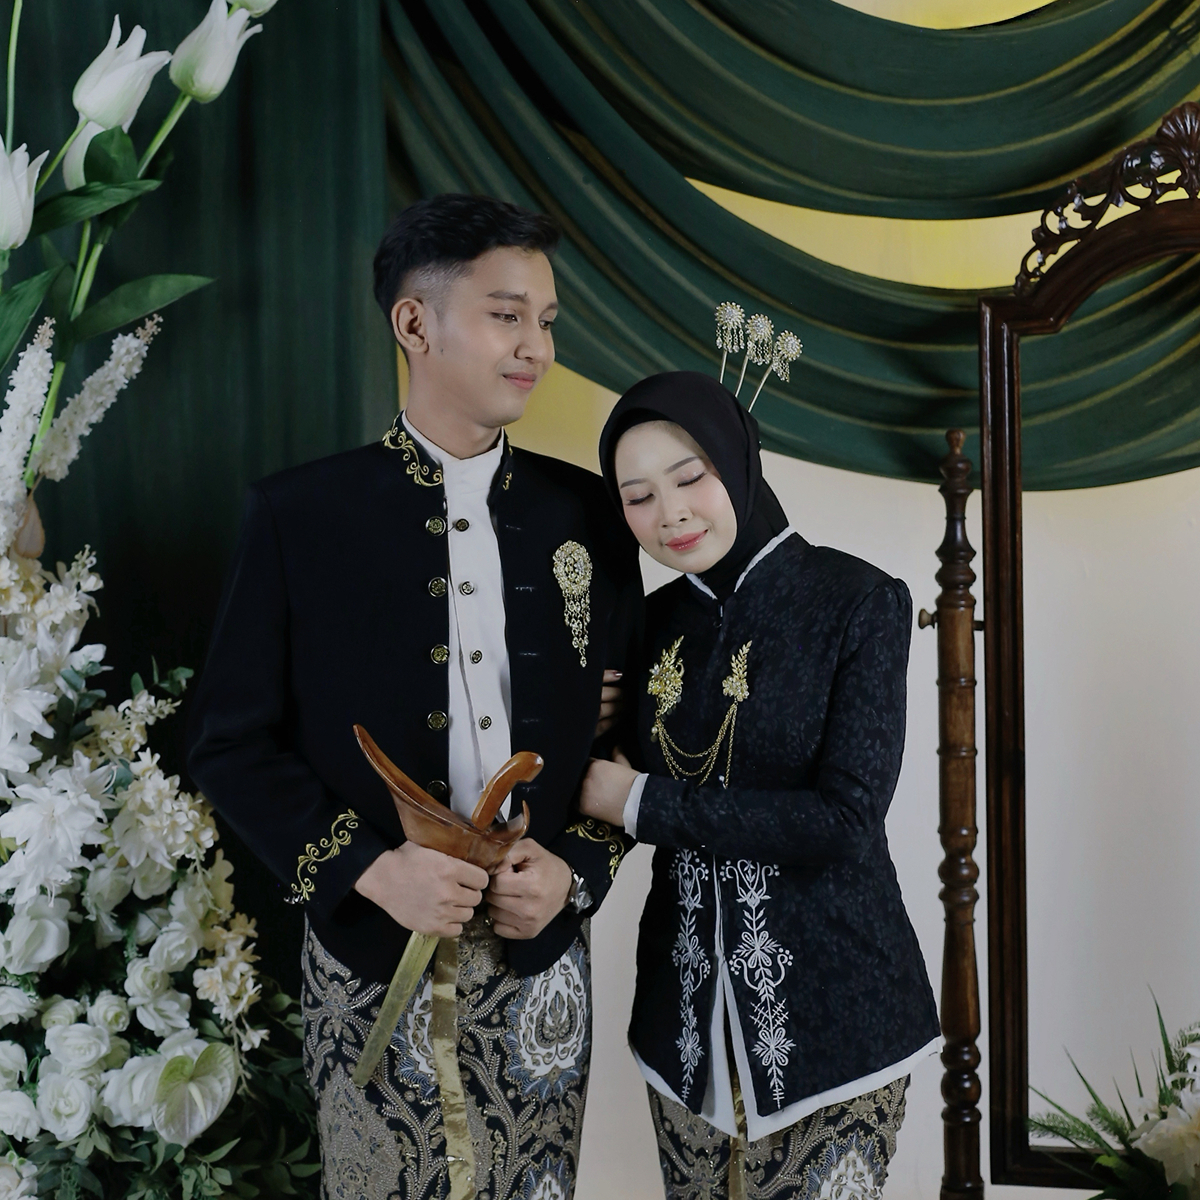
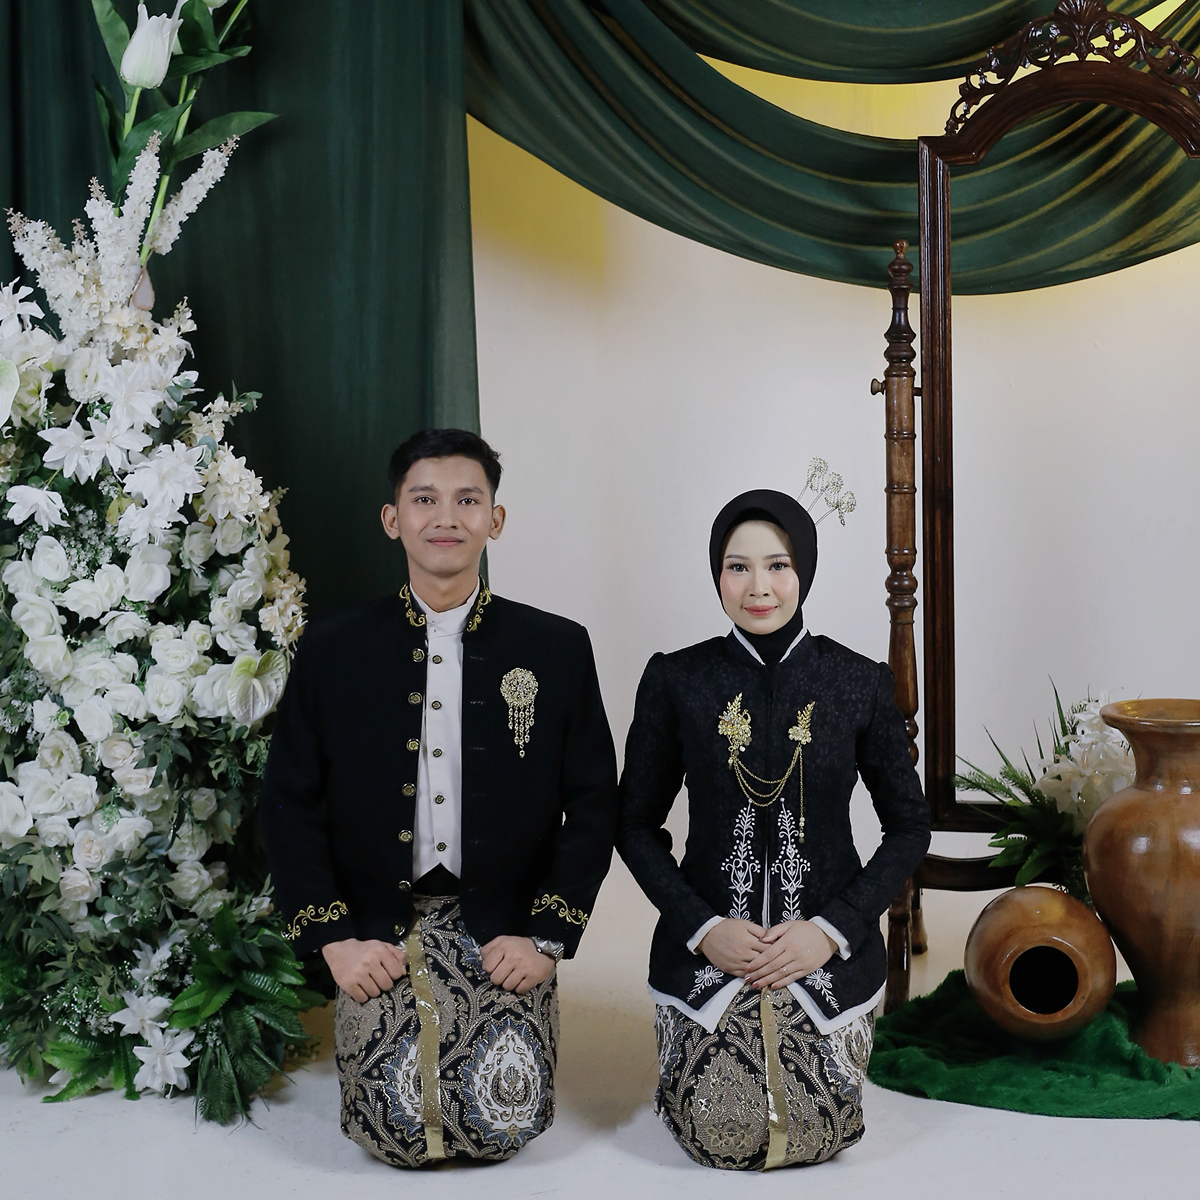
refactor: replace WebP gallery and cover images with JPEG format in index.html

diff --git a/index.html b/index.html
@@ -1294,10 +1294,10 @@
                         <div class="cover-frame" id="coverFrame">
                             <div class="cover-picture cover-show" id="cover-main">
                                 <div class="picture desktop">
-                                    <img loading="lazy" src="./media/content/portrait-10.webp" alt="">
+                                    <img loading="lazy" src="./media/content/portrait-10.jpg" alt="">
                                 </div>
                                 <div class="picture mobile">
-                                    <img loading="lazy" src="./media/content/portrait-10.webp" alt="">
+                                    <img loading="lazy" src="./media/content/portrait-10.jpg" alt="">
                                 </div>
                             </div>
                         </div>
@@ -1749,53 +1749,53 @@
 
                 <div class="photo-body">
                     <div class="photo-box lightgallery ">
-                        <a data-aos="zoom-in" data-aos-duration="1000" href="./media/content/portrait-01.webp"
+                        <a data-aos="zoom-in" data-aos-duration="1000" href="./media/content/portrait-01.jpg"
                             target="_blank">
-                            <img loading="lazy" src="./media/content/portrait-01.webp" alt="Hani & Amrul Portrait">
+                            <img loading="lazy" src="./media/content/portrait-01.jpg" alt="Hani & Amrul Portrait">
                         </a>
-                        <a data-aos="zoom-in" data-aos-duration="1000" href="./media/content/portrait-02.webp"
+                        <a data-aos="zoom-in" data-aos-duration="1000" href="./media/content/portrait-02.jpg"
                             target="_blank">
-                            <img loading="lazy" src="./media/content/portrait-02.webp" alt="Hani & Amrul Portrait">
+                            <img loading="lazy" src="./media/content/portrait-02.jpg" alt="Hani & Amrul Portrait">
                         </a>
-                        <a data-aos="zoom-in" data-aos-duration="1000" href="./media/content/portrait-03.webp"
+                        <a data-aos="zoom-in" data-aos-duration="1000" href="./media/content/portrait-03.jpg"
                             target="_blank">
-                            <img loading="lazy" src="./media/content/portrait-03.webp" alt="Hani & Amrul Portrait">
+                            <img loading="lazy" src="./media/content/portrait-03.jpg" alt="Hani & Amrul Portrait">
                         </a>
-                        <a data-aos="zoom-in" data-aos-duration="1000" href="./media/content/portrait-04.webp"
+                        <a data-aos="zoom-in" data-aos-duration="1000" href="./media/content/portrait-04.jpg"
                             target="_blank">
-                            <img loading="lazy" src="./media/content/portrait-04.webp" alt="Hani & Amrul Portrait">
+                            <img loading="lazy" src="./media/content/portrait-04.jpg" alt="Hani & Amrul Portrait">
                         </a>
-                        <a data-aos="zoom-in" data-aos-duration="1000" href="./media/content/portrait-05.webp"
+                        <a data-aos="zoom-in" data-aos-duration="1000" href="./media/content/portrait-05.jpg"
                             target="_blank">
-                            <img loading="lazy" src="./media/content/portrait-05.webp" alt="Hani & Amrul Portrait">
+                            <img loading="lazy" src="./media/content/portrait-05.jpg" alt="Hani & Amrul Portrait">
                         </a>
-                        <a data-aos="zoom-in" data-aos-duration="1000" href="./media/content/portrait-06.webp"
+                        <a data-aos="zoom-in" data-aos-duration="1000" href="./media/content/portrait-06.jpg"
                             target="_blank">
-                            <img loading="lazy" src="./media/content/portrait-06.webp" alt="Hani & Amrul Portrait">
+                            <img loading="lazy" src="./media/content/portrait-06.jpg" alt="Hani & Amrul Portrait">
                         </a>
-                        <a data-aos="zoom-in" data-aos-duration="1000" href="./media/content/portrait-07.webp"
+                        <a data-aos="zoom-in" data-aos-duration="1000" href="./media/content/portrait-07.jpg"
                             target="_blank">
-                            <img loading="lazy" src="./media/content/portrait-07.webp" alt="Hani & Amrul Portrait">
+                            <img loading="lazy" src="./media/content/portrait-07.jpg" alt="Hani & Amrul Portrait">
                         </a>
-                        <a data-aos="zoom-in" data-aos-duration="1000" href="./media/content/portrait-08.webp"
+                        <a data-aos="zoom-in" data-aos-duration="1000" href="./media/content/portrait-08.jpg"
                             target="_blank">
-                            <img loading="lazy" src="./media/content/portrait-08.webp" alt="Hani & Amrul Portrait">
+                            <img loading="lazy" src="./media/content/portrait-08.jpg" alt="Hani & Amrul Portrait">
                         </a>
-                        <a data-aos="zoom-in" data-aos-duration="1000" href="./media/content/portrait-09.webp"
+                        <a data-aos="zoom-in" data-aos-duration="1000" href="./media/content/portrait-09.jpg"
                             target="_blank">
-                            <img loading="lazy" src="./media/content/portrait-09.webp" alt="Hani & Amrul Portrait">
+                            <img loading="lazy" src="./media/content/portrait-09.jpg" alt="Hani & Amrul Portrait">
                         </a>
-                        <a data-aos="zoom-in" data-aos-duration="1000" href="./media/content/portrait-10.webp"
+                        <a data-aos="zoom-in" data-aos-duration="1000" href="./media/content/portrait-10.jpg"
                             target="_blank">
-                            <img loading="lazy" src="./media/content/portrait-10.webp" alt="Hani & Amrul Portrait">
+                            <img loading="lazy" src="./media/content/portrait-10.jpg" alt="Hani & Amrul Portrait">
                         </a>
-                        <a data-aos="zoom-in" data-aos-duration="1000" href="./media/content/portrait-11.webp"
+                        <a data-aos="zoom-in" data-aos-duration="1000" href="./media/content/portrait-11.jpg"
                             target="_blank">
-                            <img loading="lazy" src="./media/content/portrait-11.webp" alt="Hani & Amrul Portrait">
+                            <img loading="lazy" src="./media/content/portrait-11.jpg" alt="Hani & Amrul Portrait">
                         </a>
-                        <a data-aos="zoom-in" data-aos-duration="1000" href="./media/content/portrait-19.webp"
+                        <a data-aos="zoom-in" data-aos-duration="1000" href="./media/content/portrait-19.jpg"
                             target="_blank">
-                            <img loading="lazy" src="./media/content/portrait-19.webp" alt="Hani & Amrul Portrait">
+                            <img loading="lazy" src="./media/content/portrait-19.jpg" alt="Hani & Amrul Portrait">
                         </a>
                     </div>
                 </div>
@@ -3384,40 +3384,78 @@
             <section class="kado-wrapper">
                 <div class="ornaments-wrapper">
                     <div class="orn-gt-2 center">
-                        <div class="image-wrap" data-aos="zoom-in" data-aos-duration="1900" data-aos-delay="1550">
-                            <img loading="lazy" src="./media/template/exclusive/alsa/original/Orn-06.png"
-                                alt="Ornaments">
+                        <div class="image-wrap aos-init aos-animate" data-aos="zoom-in" data-aos-duration="1900"
+                            data-aos-delay="1550">
+                            <img src="./media/template/exclusive/alsa/original/Orn-06.png" alt="Ornaments">
                         </div>
                     </div>
                     <div class="orn-gt-1 left">
                         <div class="orn-gt-1-1">
-                            <div class="image-wrap" data-aos="zoom-in-up" data-aos-duration="1900"
+                            <div class="image-wrap aos-init aos-animate" data-aos="zoom-in-up" data-aos-duration="1900"
                                 data-aos-delay="1550">
-                                <img loading="lazy" src="./media/template/exclusive/alsa/original/Orn-14.png"
-                                    alt="Ornaments">
+                                <img src="./media/template/exclusive/alsa/original/Orn-14.png" alt="Ornaments">
                             </div>
                         </div>
-                        <div class="image-wrap" data-aos="zoom-in-up" data-aos-duration="1900" data-aos-delay="1550">
-                            <img loading="lazy" src="./media/template/exclusive/alsa/original/Orn-19.png"
-                                alt="Ornaments">
+                        <div class="image-wrap aos-init aos-animate" data-aos="zoom-in-up" data-aos-duration="1900"
+                            data-aos-delay="1550">
+                            <img src="./media/template/exclusive/alsa/original/Orn-19.png" alt="Ornaments">
                         </div>
                     </div>
                     <div class="orn-gt-1 right">
                         <div class="orn-gt-1-1">
-                            <div class="image-wrap" data-aos="zoom-in-up" data-aos-duration="1900"
+                            <div class="image-wrap aos-init aos-animate" data-aos="zoom-in-up" data-aos-duration="1900"
                                 data-aos-delay="1550">
-                                <img loading="lazy" src="./media/template/exclusive/alsa/original/Orn-14.png"
-                                    alt="Ornaments">
+                                <img src="./media/template/exclusive/alsa/original/Orn-14.png" alt="Ornaments">
                             </div>
                         </div>
-                        <div class="image-wrap" data-aos="zoom-in-up" data-aos-duration="1900" data-aos-delay="1550">
-                            <img loading="lazy" src="./media/template/exclusive/alsa/original/Orn-19.png"
-                                alt="Ornaments">
+                        <div class="image-wrap aos-init aos-animate" data-aos="zoom-in-up" data-aos-duration="1900"
+                            data-aos-delay="1550">
+                            <img src="./media/template/exclusive/alsa/original/Orn-19.png" alt="Ornaments">
                         </div>
                     </div>
                 </div>
                 <section id="wedding-gifts" class="container wedding-gifts-wrap ">
-
+                    <div class="wedding-gifts-inner">
+                        <div class="wedding-gifts-head">
+                            <h1 class="wedding-gifts-title" data-i18n="gifts_send_title">Send us a gift</h1>
+                            <p class="wedding-gifts-description" data-i18n="gifts_send_desc">Silahkan kirimkan hadiah kepada kedua mempelai</p>
+                        </div>
+                        <div class="wedding-gifts-body">
+                            <!-- <p class="wedding-gifts-label">Shipping Address</p> -->
+                            <div class="p-relative">
+                                <div class="ornaments-wrapper">
+                                    <div class="orn-gt-6">
+                                        <div class="image-wrap aos-init aos-animate" data-aos="zoom-in"
+                                            data-aos-duration="1900" data-aos-delay="1550">
+                                            <img src="./media/template/exclusive/alsa/original/Orn-28.png"
+                                                alt="Ornaments">
+                                        </div>
+                                    </div>
+                                </div>
+                                <div class="wedding-gift-address-wrap">
+                                    <div class="wedding-gift-info-wrap">
+                                        <span class="inner-address-info">
+                                            Iskandar
+                                        </span>
+                                    </div>
+                                    <!-- <div class="wedding-gift-info-wrap">
+                                        <span class="inner-address-info">
+                                            Iskandar
+                                        </span>
+                                    </div> -->
+                                    <div class="wedding-gift-info-wrap">
+                                        <span class="inner-address-info address">
+                                            RT.2/RW.15, Kp. Nyampay, Desa Langensari, Lembang
+                                        </span>
+                                    </div>
+                                    <a href="#" data-toggle="modal" class="btn-hadiah-copy"
+                                        data-copy="RT.2/RW.15, Kp. Nyampay, Desa Langensari, Lembang">
+                                        <i class="ph ph-copy-simple"></i>
+                                    </a>
+                                </div>
+                            </div>
+                        </div>
+                    </div>
                 </section>
             </section>
         </div>
@@ -3790,8 +3828,8 @@
     {
         'position': 'MAIN',
         'details': {
-            'desktop': "<div class=\"picture desktop\">\n                                            <img loading=\"lazy\" src=\"./media/content/portrait-10.webp\" alt=\"\">\n                                        <\/div>",
-            'mobile': "<div class=\"picture mobile\">\n                                            <img loading=\"lazy\" src=\"./media/content/portrait-10.webp\" alt=\"\">\n                                        <\/div>"
+            'desktop': "<div class=\"picture desktop\">\n                                            <img loading=\"lazy\" src=\"./media/content/portrait-10.jpg\" alt=\"\">\n                                        <\/div>",
+            'mobile': "<div class=\"picture mobile\">\n                                            <img loading=\"lazy\" src=\"./media/content/portrait-10.jpg\" alt=\"\">\n                                        <\/div>"
         },
         'element': '#cover-main'
     },
@@ -3936,7 +3974,9 @@
             guest_title: "Bapak/Ibu/Saudara/i",
             greet_description: "Dengan penuh sukacita, segenap keluarga besar kedua mempelai turut mengundang Bapak/Ibu/Saudara/i untuk hadir dan memberikan doa restu.",
             music_play: "Putar musik",
-            music_pause: "Jeda musik"
+            music_pause: "Jeda musik",
+            gifts_send_title: "Kirim Hadiah",
+            gifts_send_desc: "Silahkan kirimkan hadiah kepada kedua mempelai"
         },
         EN: {
             open_invitation: "Open Invitation",
@@ -3988,7 +4028,9 @@
             guest_title: "Mr./Mrs./Family & Friends",
             greet_description: "With great joy, the extended families of the bride and groom invite you to attend and give your prayers and blessings.",
             music_play: "Play music",
-            music_pause: "Pause music"
+            music_pause: "Pause music",
+            gifts_send_title: "Send us a gift",
+            gifts_send_desc: "Please send a gift to the couple"
         }
     };
 